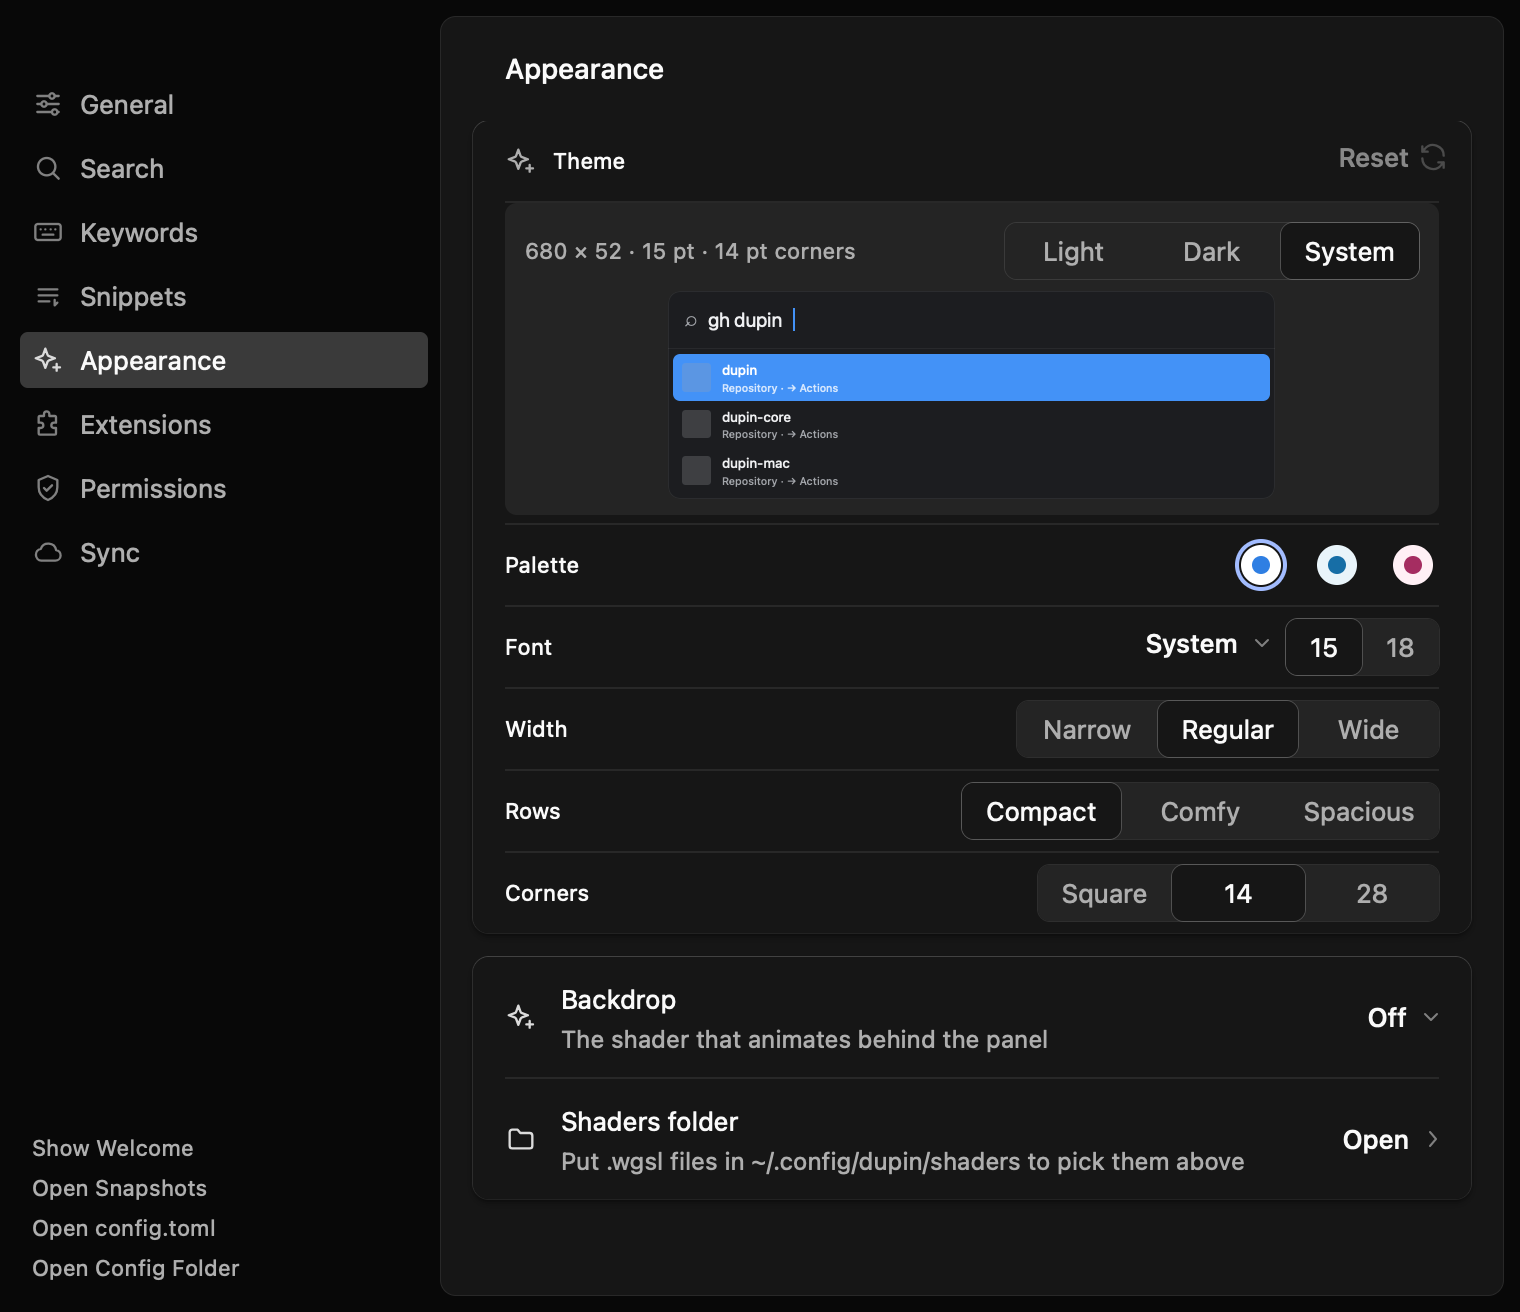
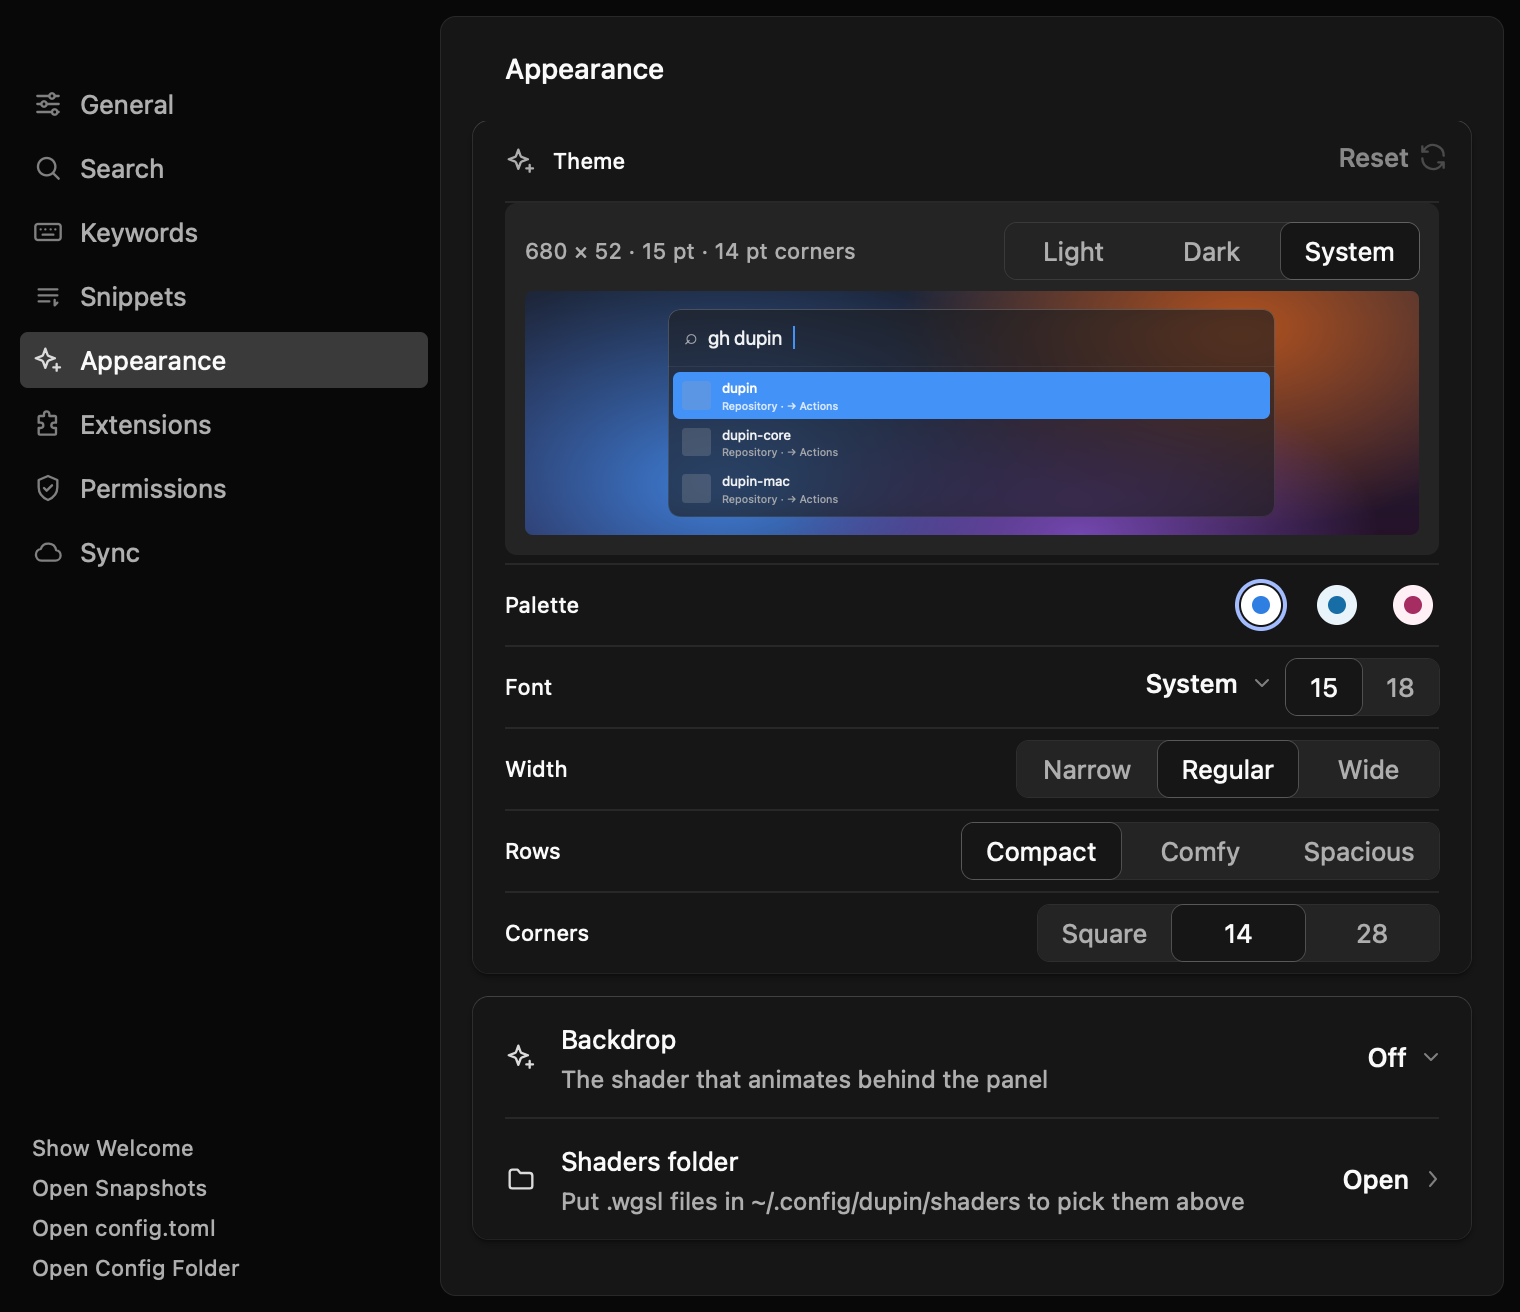
fix(settings): draw the theme preview as glass over a wallpaper (#320)

diff --git a/crates/dupin/src/view/theme.rs b/crates/dupin/src/view/theme.rs
@@ -77,18 +77,33 @@ fn preview_geometry(theme: &dupin_core::config::Theme, avail_w: f32) -> (f32, f3
     (w, h, scale, n)
 }
 
+/// How far the miniature's glass blurs the desk behind it, in the panel's own points.
+const GLASS_BLUR: f32 = 24.0;
+/// How much of the card colour covers the miniature's glass: the system glass's own frost
+/// plus the panel's `FROST` over it.
+const GLASS_TINT: f32 = 0.6;
+
+/// The miniature panel on a small desk of colour, so its glass has something to show through it.
+/// The desk spans the width it is given; the caller sizes its height, rounds and clips it.
 pub fn theme_preview(theme: &dupin_core::config::Theme, dark: bool, avail_w: f32) -> El {
     let t = ResolvedTheme::new(theme, dark);
     let (w, h, scale, n) = preview_geometry(theme, avail_w);
     let radius = theme.corner_radius as f32;
+    let ink = if dark { Color::WHITE } else { Color::BLACK };
     let panel = col()
         .w(w)
         .h(h)
         .radius(radius)
         .continuous_corners()
         .clip_rounded(radius)
-        .fill(t.card)
-        .border(1.0, t.text.alpha(0.08))
+        .backdrop_blur(GLASS_BLUR)
+        .fill(t.card.alpha(GLASS_TINT))
+        .border_gradient(
+            1.0,
+            Color::WHITE.alpha(if dark { 0.22 } else { 0.7 }),
+            ink.alpha(0.08),
+        )
+        .shadow(10.0, 32.0, Color::BLACK.alpha(if dark { 0.35 } else { 0.16 }))
         .child(
             row()
                 .w_full()
@@ -131,13 +146,42 @@ pub fn theme_preview(theme: &dupin_core::config::Theme, dark: bool, avail_w: f32
                 },
             )
         })));
-    el().size((w * scale).round(), (h * scale).round())
-        .a11y_hidden()
+    let miniature = el()
+        .size((w * scale).round(), (h * scale).round())
         .child(panel.scale(scale).pin(
             Some((w * scale - w) / 2.0),
             Some((h * scale - h) / 2.0),
             None,
             None,
+        ));
+    desk(&t, dark).a11y_hidden().child(miniature)
+}
+
+/// A soft wallpaper of the theme's accent and two fixed hues, drawn once: Settings has no
+/// backdrop compositor, and a still desk keeps the window idle while it is open.
+fn desk(t: &ResolvedTheme, dark: bool) -> El {
+    let (l, top, bottom) = if dark {
+        (
+            0.55,
+            rune::oklch(0.27, 0.04, 265.0),
+            rune::oklch(0.22, 0.05, 320.0),
+        )
+    } else {
+        (0.8, rune::oklch(0.94, 0.03, 250.0), rune::oklch(0.9, 0.04, 330.0))
+    };
+    let blob = |center: [f32; 2], radius: [f32; 2], color: Color| {
+        el().pin(Some(0.0), Some(0.0), Some(0.0), Some(0.0))
+            .radial_gradient(center, radius, [(0.0, color), (1.0, color.alpha(0.0))])
+    };
+    el().w_full()
+        .center()
+        .gradient(top, bottom)
+        .child(blob([0.22, 0.8], [190.0, 110.0], t.accent.alpha(0.85)))
+        .child(blob([0.8, 0.15], [170.0, 100.0], rune::oklch(l, 0.14, 45.0)))
+        .child(blob(
+            [0.62, 1.0],
+            [150.0, 80.0],
+            rune::oklch(l - 0.05, 0.16, 300.0),
         ))
 }
 

diff --git a/crates/dupin/src/prefs/appearance.rs b/crates/dupin/src/prefs/appearance.rs
@@ -386,7 +386,7 @@ fn theme_card(s: &Prefs, k: &Kit, dark: bool) -> El {
     .key("preview-appearance");
     let well = col()
         .w_full()
-        .h(156.0)
+        .h(176.0)
         .padding(10.0)
         .gap(6.0)
         .radius(k.radius.md)
@@ -407,11 +407,12 @@ fn theme_card(s: &Prefs, k: &Kit, dark: bool) -> El {
                 )
                 .child(toggle),
         )
-        .child(el().w_full().grow(1.0).center().child(crate::view::theme_preview(
-            t,
-            s.preview_dark.unwrap_or(dark),
-            414.0,
-        )));
+        .child(
+            crate::view::theme_preview(t, s.preview_dark.unwrap_or(dark), 414.0)
+                .grow(1.0)
+                .radius(k.radius.sm)
+                .clip_rounded(k.radius.sm),
+        );
     let mut reset = value_button(k, "reset-theme", "Reset", &icons::REFRESH);
     if locked || *t == Theme::default() {
         reset = reset.disabled(true).layer_opacity(0.5);

diff --git a/docs/features/appearance.md b/docs/features/appearance.md
@@ -63,8 +63,9 @@ Geometry uses integer points: width 400–1200, row height 52–100, radius 0–
 font size 12–20. Rows must be at least `3 * font_size + 7` points tall. Invalid
 reloads keep the last good configuration and show an error.
 
-Settings → Appearance shows light and dark previews at the configured width (scroll
-to see wide panels), with a menu for colors, font and geometry presets. Edit TOML
+Settings → Appearance shows a scaled-down preview of the panel in light, dark or the
+system appearance, as glass over a still wallpaper tinted by the palette's accent (the
+backdrop shader doesn't run there), with controls for colors, font and geometry presets. Edit TOML
 for precise values. Changes use the usual settings save/conflict handling; the theme
 section is one setting for conflict detection. The menu is locked only when a read-only
 `config.toml` sets `[theme]`; otherwise edits are saved in Dupin's encrypted storage.
